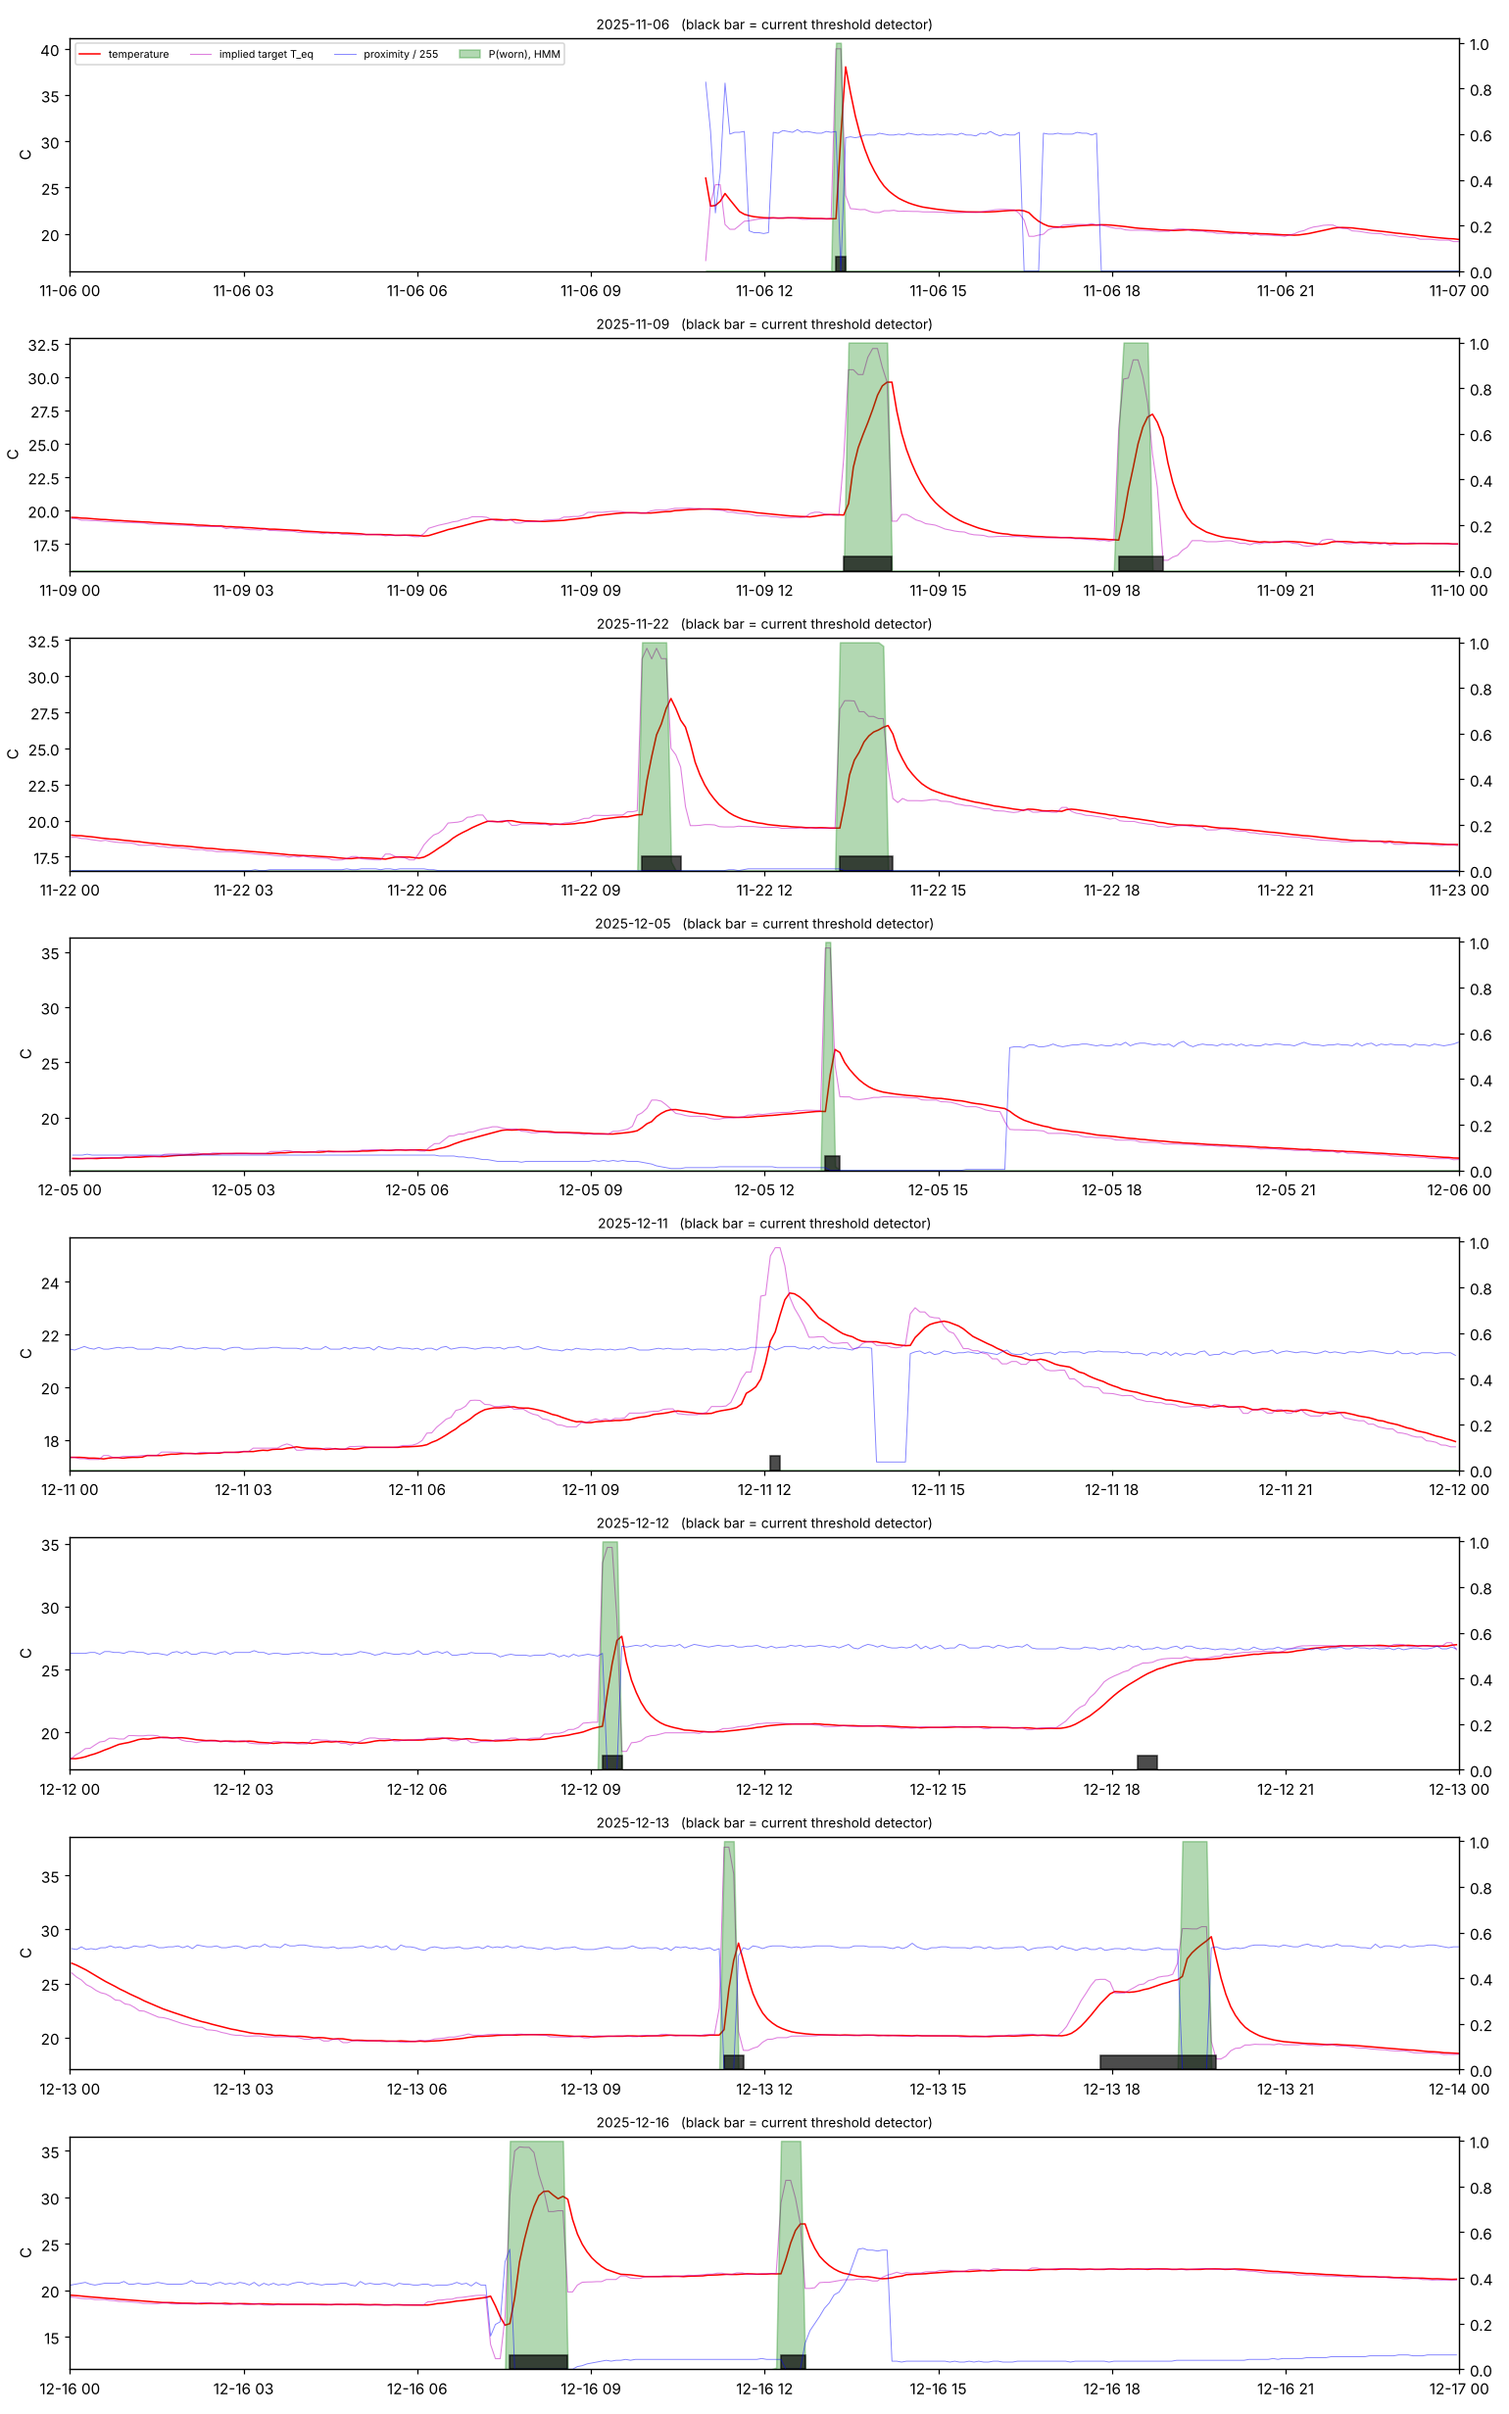
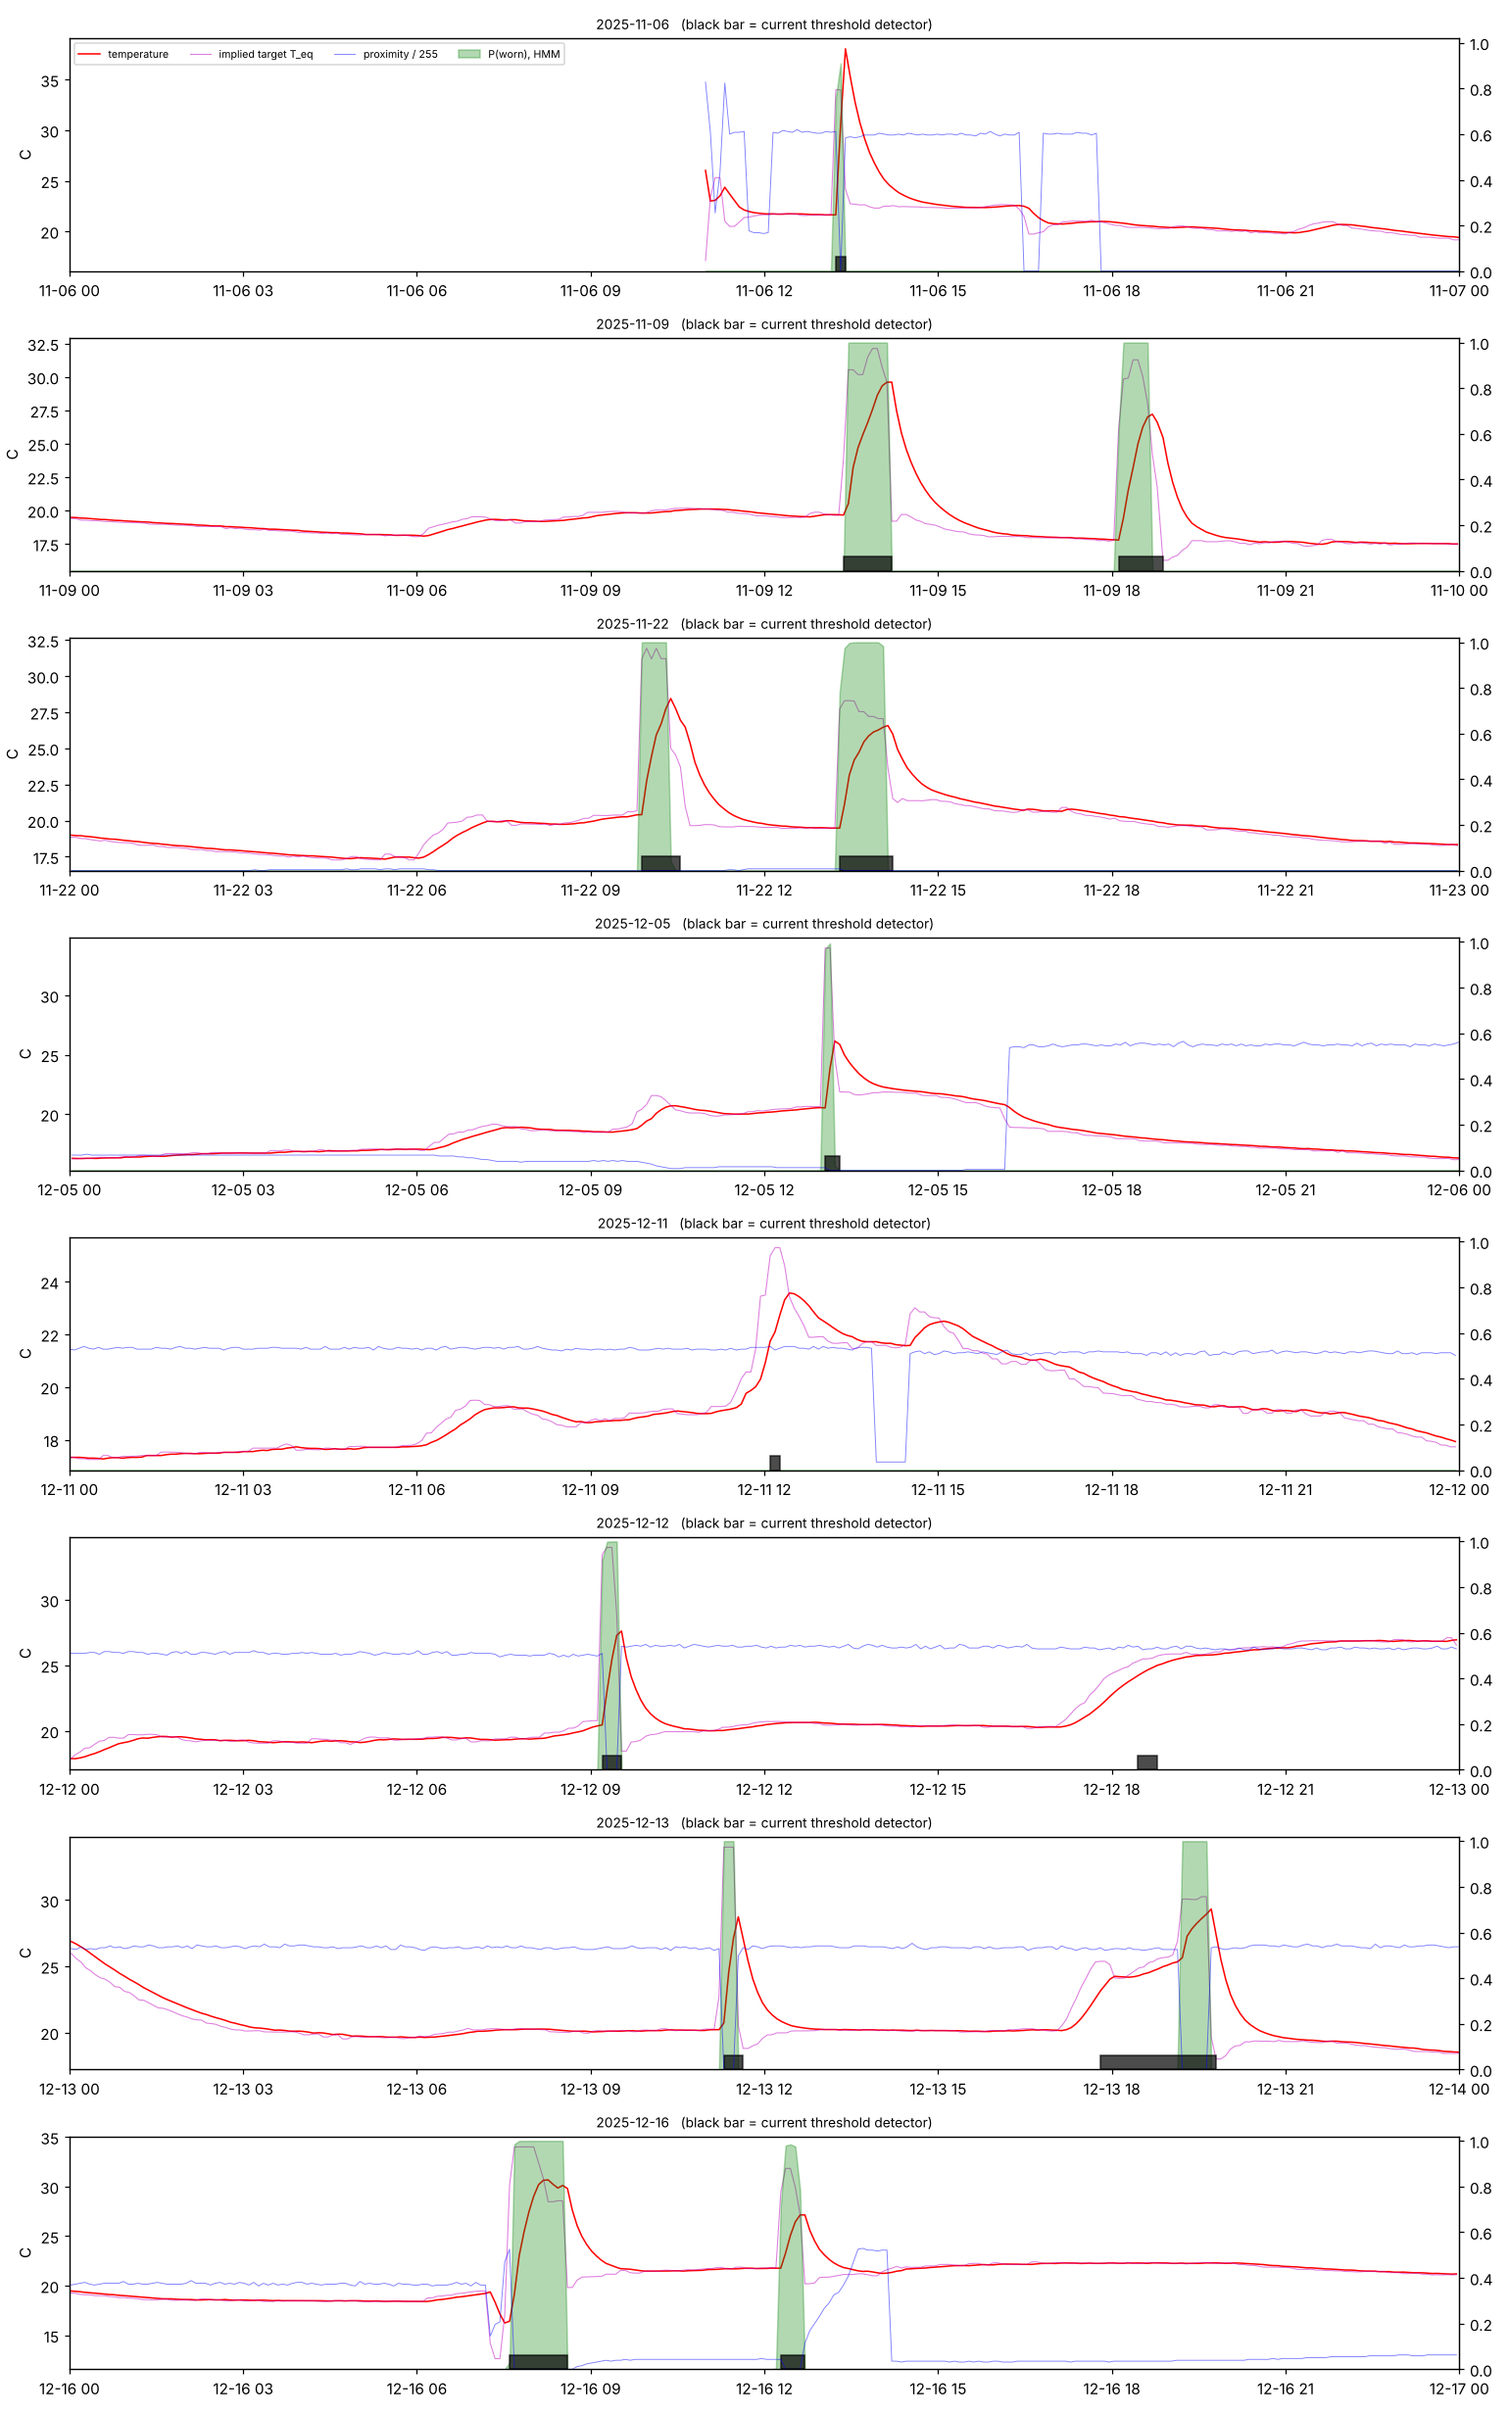
HMM prototype: background state, T_eq cap, offset convention, startup skip
- Fixed broad 'other (not worn)' state so out-of-range samples (splint in
  a cold place) no longer fall into the worn state.
- Cap implied target temperature at 34 C so fast warm-ups count as wear
  rather than outliers.
- Report offset at the sample after the last worn one (posterior covers
  the following interval).
- Ignore the first 30 min (device setup handling).
- Add comparison plot for the Feb-Mar 2026 recording.

Claude-Session: https://claude.ai/code/session_01BoGZwysKFBjUr42xN8dWyZ

diff --git a/research/hmm_detector.py b/research/hmm_detector.py
@@ -39,12 +39,17 @@ import numpy as np
 import pandas as pd
 
 ALPHA_PER_5MIN = 0.2
+T_EQ_CAP = 34.0
 
 # State 0 is "worn" and stays fixed. The others are initial guesses refined by EM.
 # Columns: [T_eq (C), log1p(proximity)]
-STATE_NAMES = ["worn", "covered/stored", "uncovered", "proximity drift", "warm ambient"]
-INIT_MEANS = np.array([[32.0, 0.5], [19.0, 0.0], [19.0, 4.8], [19.0, 2.5], [25.0, 2.5]])
-INIT_VARS = np.array([[3.0**2, 1.2**2], [4, 0.3], [4, 0.2], [4, 0.6], [4, 1.5]])
+# The last state, "other", is a broad background state that is also kept fixed. Without
+# it, any sample far from every learned state (e.g. the splint left somewhere cold,
+# T_eq ~13 C) is assigned to whichever state is least unlikely, which can be "worn".
+STATE_NAMES = ["worn", "covered/stored", "uncovered", "proximity drift", "warm ambient", "other (not worn)"]
+INIT_MEANS = np.array([[32.0, 0.5], [19.0, 0.0], [19.0, 4.8], [19.0, 2.5], [25.0, 2.5], [18.0, 2.5]])
+INIT_VARS = np.array([[3.0**2, 1.2**2], [4, 0.3], [4, 0.2], [4, 0.6], [4, 1.5], [7.0**2, 2.5**2]])
+FIXED_STATES = [0, len(INIT_MEANS) - 1]
 
 
 def implied_target(time_series, temp_series, alpha=ALPHA_PER_5MIN):
@@ -54,10 +59,22 @@ def implied_target(time_series, temp_series, alpha=ALPHA_PER_5MIN):
     # Scale alpha to the actual step length (first-order response).
     a = 1 - (1 - alpha) ** (step_min / 5.0)
     d_temp = (temp.shift(-1) - temp).ffill()
-    return (temp + d_temp / a).rolling(3, center=True, min_periods=1).median().to_numpy()
+    t_eq = (temp + d_temp / a).rolling(3, center=True, min_periods=1).median()
+    # Fast warm-ups overshoot (T_eq of 40-60 C from 5-min sampling noise and
+    # contact transients). Being heated harder than skin is still evidence of
+    # wear, so cap at the top of the skin range instead of letting the worn
+    # Gaussian treat it as an outlier.
+    return t_eq.clip(upper=T_EQ_CAP).to_numpy()
 
 
-def detect_hmm(time_series, temp_series, prox_series, alpha=ALPHA_PER_5MIN, max_iter=100, tol=1e-3):
+def detect_hmm(time_series, temp_series, prox_series, alpha=ALPHA_PER_5MIN, max_iter=100, tol=1e-3,
+               skip_start_min=30):
+    """Return (P(worn) per sample, T_eq, fitted model).
+
+    T_eq[t] uses the step t -> t+1, so P(worn)[t] describes the interval that
+    starts at sample t. The first `skip_start_min` minutes (device setup and
+    handling) are forced to P(worn) = 0.
+    """
     from hmmlearn.hmm import GaussianHMM
 
     t_eq = implied_target(time_series, temp_series, alpha)
@@ -79,10 +96,10 @@ def detect_hmm(time_series, temp_series, prox_series, alpha=ALPHA_PER_5MIN, max_
         for _ in range(max_iter):
             model.fit(X)  # one EM step
             means = model.means_.copy()
-            means[0] = INIT_MEANS[0]  # pin the worn state to physiology
+            means[FIXED_STATES] = INIT_MEANS[FIXED_STATES]  # pin worn (physiology) and background
             model.means_ = means
             covs = np.array([np.diag(c) for c in model.covars_])
-            covs[0] = INIT_VARS[0]
+            covs[FIXED_STATES] = INIT_VARS[FIXED_STATES]
             model.covars_ = covs
             ll = model.score(X)
             if abs(ll - prev) < tol:
@@ -90,6 +107,8 @@ def detect_hmm(time_series, temp_series, prox_series, alpha=ALPHA_PER_5MIN, max_
             prev = ll
 
     p_worn = model.predict_proba(X)[:, 0]
+    t = pd.to_datetime(pd.Series(time_series)).reset_index(drop=True)
+    p_worn[(t - t.iloc[0]).dt.total_seconds().to_numpy() < skip_start_min * 60] = 0.0
     return p_worn, t_eq, model
 
 
@@ -103,7 +122,10 @@ def to_events(time_series, p_worn, threshold=0.5, min_samples=2):
             while j + 1 < n and mask[j + 1]:
                 j += 1
             if j - i + 1 >= min_samples:
-                rows.append((i, j, t[i], t[j], (t[j] - t[i]).total_seconds() / 60 + 5,
+                # Sample j's posterior covers the interval j -> j+1, so removal
+                # happened by the next sample.
+                end = t[j + 1] if j + 1 < n else t[j]
+                rows.append((i, j, t[i], end, (end - t[i]).total_seconds() / 60,
                              float(np.mean(p_worn[i:j + 1]))))
             i = j + 1
         else:
